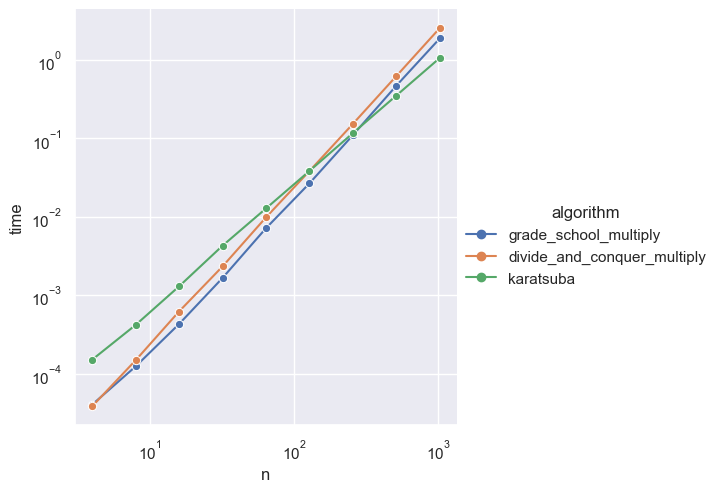
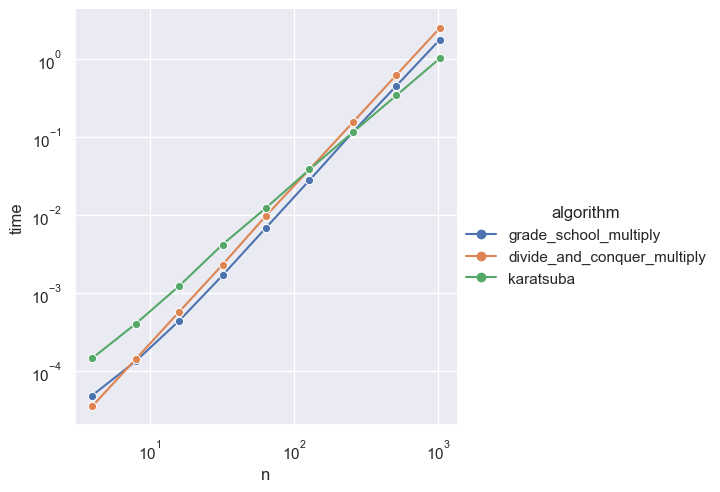
done

diff --git a/se4230/project-3/karatsuba.py b/se4230/project-3/karatsuba.py
@@ -1,11 +1,6 @@
-# =============WARM-UP=============
-## Search for "Warm-up (easy): get comfortable with the representation"
-
-# =============CHECKPOINT=============
-## Search for "Checkpoint (medium): the naive divide-and-conquer split"
-
-# =============MAIN=============
-## Search for "Main: Karatsuba"
+# Name: Jidapa Angsutti
+# Course: SE4230 Advanced Algorithms
+# Date: 9/18/2026
 
 # ----Starter Code-----
 
